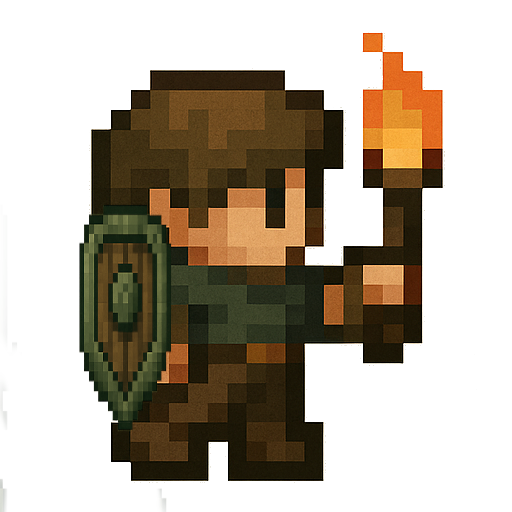
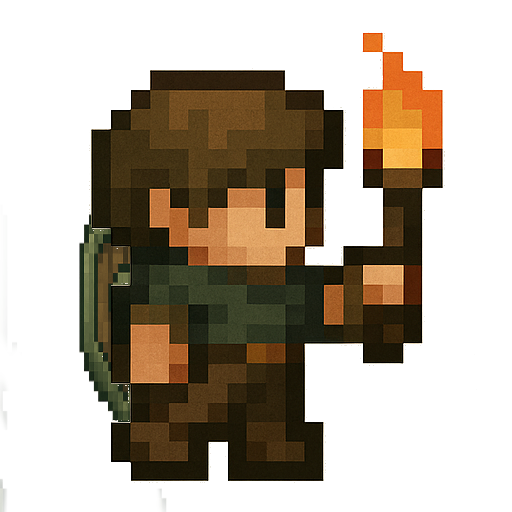
hero has items visually

Changed region(s): [[0.1562, 0.375, 0.3438, 0.8438]]

diff --git a/components/Tile.tsx b/components/Tile.tsx
@@ -22,6 +22,8 @@ interface TileProps {
   hasEnemy?: boolean; // Whether this tile contains an enemy
   enemyVisible?: boolean; // Whether enemy is in player's FOV
   enemyFacing?: 'UP' | 'RIGHT' | 'DOWN' | 'LEFT';
+  hasSword?: boolean; // Whether player holds a sword (for sprite)
+  hasShield?: boolean; // Whether player holds a shield (for sprite)
 }
 
 export const Tile: React.FC<TileProps> = ({
@@ -37,6 +39,8 @@ export const Tile: React.FC<TileProps> = ({
   hasEnemy = false,
   enemyVisible = undefined,
   enemyFacing,
+  hasSword,
+  hasShield,
 }) => {
   // Fast bitmask-based wall variant resolver for perspective.
   // We IGNORE the North (behind) bit and only key off E, S, W.
@@ -424,20 +428,34 @@ export const Tile: React.FC<TileProps> = ({
     );
   };
 
-  // Get the appropriate hero image based on player direction if this is a player tile
-  const heroImage = isVisible && subtype && subtype.includes(TileSubtype.PLAYER) ? (() => {
-    // Default to front-facing
-    switch (playerDirection) {
-      case Direction.UP:
-        return '/images/hero/hero-back-static.png';
-      case Direction.RIGHT:
-      case Direction.LEFT:
-        return '/images/hero/hero-right-static.png';
-      case Direction.DOWN:
-      default:
-        return '/images/hero/hero-front-static.png';
-    }
-  })() : '';
+  // Get the appropriate hero image based on player direction and equipment if this is a player tile
+  const heroImage = isVisible && subtype && subtype.includes(TileSubtype.PLAYER)
+    ? (() => {
+        const equip = () => {
+          const s = hasSword ? '-sword' : '';
+          const h = hasShield ? '-shield' : '';
+          // Order: shield then sword when both are present
+          if (s && h) return '-shield-sword';
+          if (h) return '-shield';
+          if (s) return '-sword';
+          return '';
+        };
+        let dir = 'front';
+        switch (playerDirection) {
+          case Direction.UP:
+            dir = 'back';
+            break;
+          case Direction.RIGHT:
+          case Direction.LEFT:
+            dir = 'right';
+            break;
+          case Direction.DOWN:
+          default:
+            dir = 'front';
+        }
+        return `/images/hero/hero-${dir}${equip()}-static.png`;
+      })()
+    : '';
   
   // Determine if we need to flip the hero image for left-facing direction
   const isPlayerTile = isVisible && subtype && subtype.includes(TileSubtype.PLAYER);

diff --git a/components/TilemapGrid.tsx b/components/TilemapGrid.tsx
@@ -574,7 +574,9 @@ export const TilemapGrid: React.FC<TilemapGridProps> = ({
                 gameState.mapData.subtypes,
                 gameState.showFullMap,
                 gameState.playerDirection,
-                gameState.enemies
+                gameState.enemies,
+                gameState.hasSword,
+                gameState.hasShield
               )}
             </div>
           </div>
@@ -643,7 +645,9 @@ function renderTileGrid(
   subtypes: number[][][] | undefined,
   showFullMap: boolean = false,
   playerDirection: Direction = Direction.DOWN,
-  enemies?: Enemy[]
+  enemies?: Enemy[],
+  hasSword?: boolean,
+  hasShield?: boolean
 ) {
   // Find player position in the grid
   let playerPosition: [number, number] | null = null;
@@ -717,6 +721,8 @@ function renderTileGrid(
             hasEnemy={hasEnemy}
             enemyVisible={isVisible}
             enemyFacing={enemyAtTile?.facing}
+            hasSword={hasSword}
+            hasShield={hasShield}
           />
         </div>
       );
